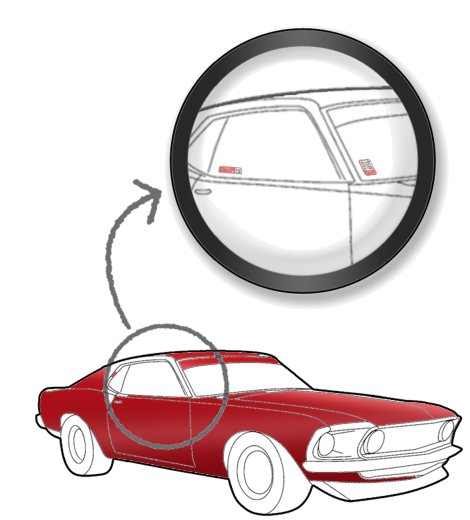
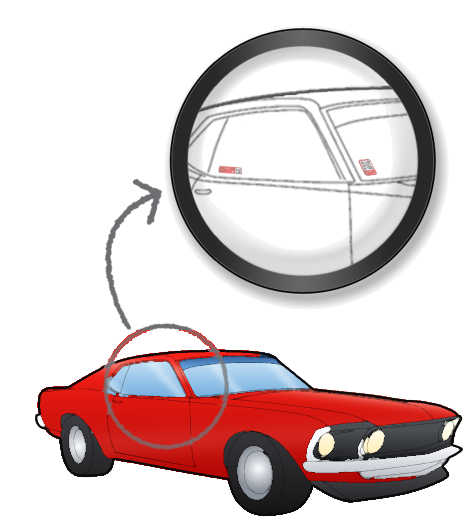
Mustang pintado con detalle (v3) y sirena del móvil alternando blanco y negro / rojo
Claude-Session: https://claude.ai/code/session_013R8ZDYyWaBdvK9dXFoGibW

Changed region(s): [[0.0596, 0.6154, 0.983, 1.0], [0.3872, 0.6154, 0.417, 0.6462]]

diff --git a/index.html b/index.html
@@ -95,10 +95,11 @@ ul.ok li:before{content:"";position:absolute;left:0;top:12px;width:20px;height:2
 .ph{width:130px;height:250px;margin:0 auto;border:7px solid #1d1f22;border-radius:26px;background:#1d1f22;position:relative;box-shadow:0 10px 24px rgba(0,0,0,.25);animation:shake 1.2s infinite}
 .ph:before{content:"";position:absolute;top:4px;left:50%;width:36px;height:6px;margin-left:-18px;border-radius:4px;background:#000;z-index:2}
 .ph .scr{height:100%;border-radius:19px;background:radial-gradient(circle at 50% 40%,#ff4a3a,#b00d05 70%);color:#fff;display:flex;flex-direction:column;align-items:center;justify-content:center;gap:2px;overflow:hidden;animation:flash 1.2s infinite}
-.ph .scr img{width:82px;max-height:none;margin:4px 0;filter:drop-shadow(0 0 12px #fff8)}
+.ph .sir{position:relative;width:82px;height:86px;margin:4px 0}.ph .sir img{position:absolute;inset:0;width:82px;max-height:none}.ph .sir .rj{filter:drop-shadow(0 0 12px #fff8);animation:sirena .8s steps(1) infinite}
+@keyframes sirena{50%{opacity:0}}
 .ph small{font-size:10px;opacity:.85;font-weight:600}.ph b{font-size:19px;letter-spacing:.04em}.ph span{font-size:13px;font-weight:600}.ph em{font-style:normal;font-size:9.5px;opacity:.85;margin-top:6px}
 @keyframes flash{50%{filter:brightness(1.25)}}@keyframes shake{0%,100%{transform:rotate(0)}5%{transform:rotate(-3deg)}10%{transform:rotate(3deg)}15%{transform:rotate(-2deg)}20%{transform:rotate(0)}}
-@media(prefers-reduced-motion:reduce){.ph,.ph .scr{animation:none}}
+@media(prefers-reduced-motion:reduce){.ph,.ph .scr,.ph .sir .rj{animation:none}}
 .pill{display:inline-block;color:#fff;font-size:13px;font-weight:600;padding:4px 12px;border-radius:999px}
 @media(max-width:760px){.uses{grid-template-columns:1fr}}
 .carimg{width:100%;max-width:560px;display:block;margin:0 auto}
@@ -154,10 +155,10 @@ footer a{color:#fff;text-decoration:none}
   <h2>Un ejemplo: tu coche</h2>
   <p class="sub">Luces encendidas, mal aparcado, un golpe… Te avisan en segundos, sin tu número.<br><b style="color:var(--ink)">Quien escanea no necesita ninguna app: basta con la cámara del móvil.</b></p>
   <div class="carrow">
-    <figure class="cf big"><img src="/img/coche-dibujo-rojo.png?v=2" alt="Coche con las pegatinas en los cristales"><figcaption>Por dentro del cristal, en espejo</figcaption></figure>
+    <figure class="cf big"><img src="/img/coche-dibujo-rojo.png?v=3" alt="Coche con las pegatinas en los cristales"><figcaption>Por dentro del cristal, en espejo</figcaption></figure>
     <figure class="cf"><img src="/img/pegatina-qr-redondeado.png" alt="Pegatina vertical"><figcaption>Parabrisas y luna trasera</figcaption></figure>
     <figure class="cf"><img src="/img/pegatina-horizontal.png" alt="Pegatina horizontal" style="width:100%"><figcaption>Ventanillas laterales</figcaption></figure>
-    <figure class="cf"><div class="ph" aria-label="Móvil sonando con la alerta a pantalla completa"><div class="scr"><small>Scan 2 Alert</small><img src="/img/sirena.png" alt=""><b>¡ALERTA!</b><span>Mi Mustang rojo</span><em>Te avisan de tu coche</em></div></div><figcaption>Sirena en tu móvil</figcaption></figure>
+    <figure class="cf"><div class="ph" aria-label="Móvil sonando con la alerta a pantalla completa"><div class="scr"><small>Scan 2 Alert</small><span class="sir"><img class="bn" src="/img/sirena-bn.png" alt=""><img class="rj" src="/img/sirena.png" alt=""></span><b>¡ALERTA!</b><span>Mi Mustang rojo</span><em>Te avisan de tu coche</em></div></div><figcaption>Sirena en tu móvil</figcaption></figure>
   </div>
   <div class="tiles"><div><i><svg viewBox="0 0 24 24" width="40" height="40" style="display:block;margin:0 auto"><rect width="24" height="24" rx="7" fill="#1f86e0"/><path d="M8 8l8 8-4 3V5l4 3-8 8" fill="none" stroke="#fff" stroke-width="2" stroke-linecap="round" stroke-linejoin="round"/></svg></i><b>Se activa sola</b><small>con el Bluetooth del coche</small></div><div><i>🚗</i><b>Se apaga</b><small>al conducir</small></div><div><i>🏠</i><b>No suena</b><small>en lugares seguros</small></div><div><i>🚨</i><b>Sirena</b><small>a pantalla completa</small></div><div><i>💬</i><b>Chat</b><small>sin dar tu número</small></div><div><i>✅</i><b>Sabes</b><small>si lo han leído</small></div></div>
 </div></section>
